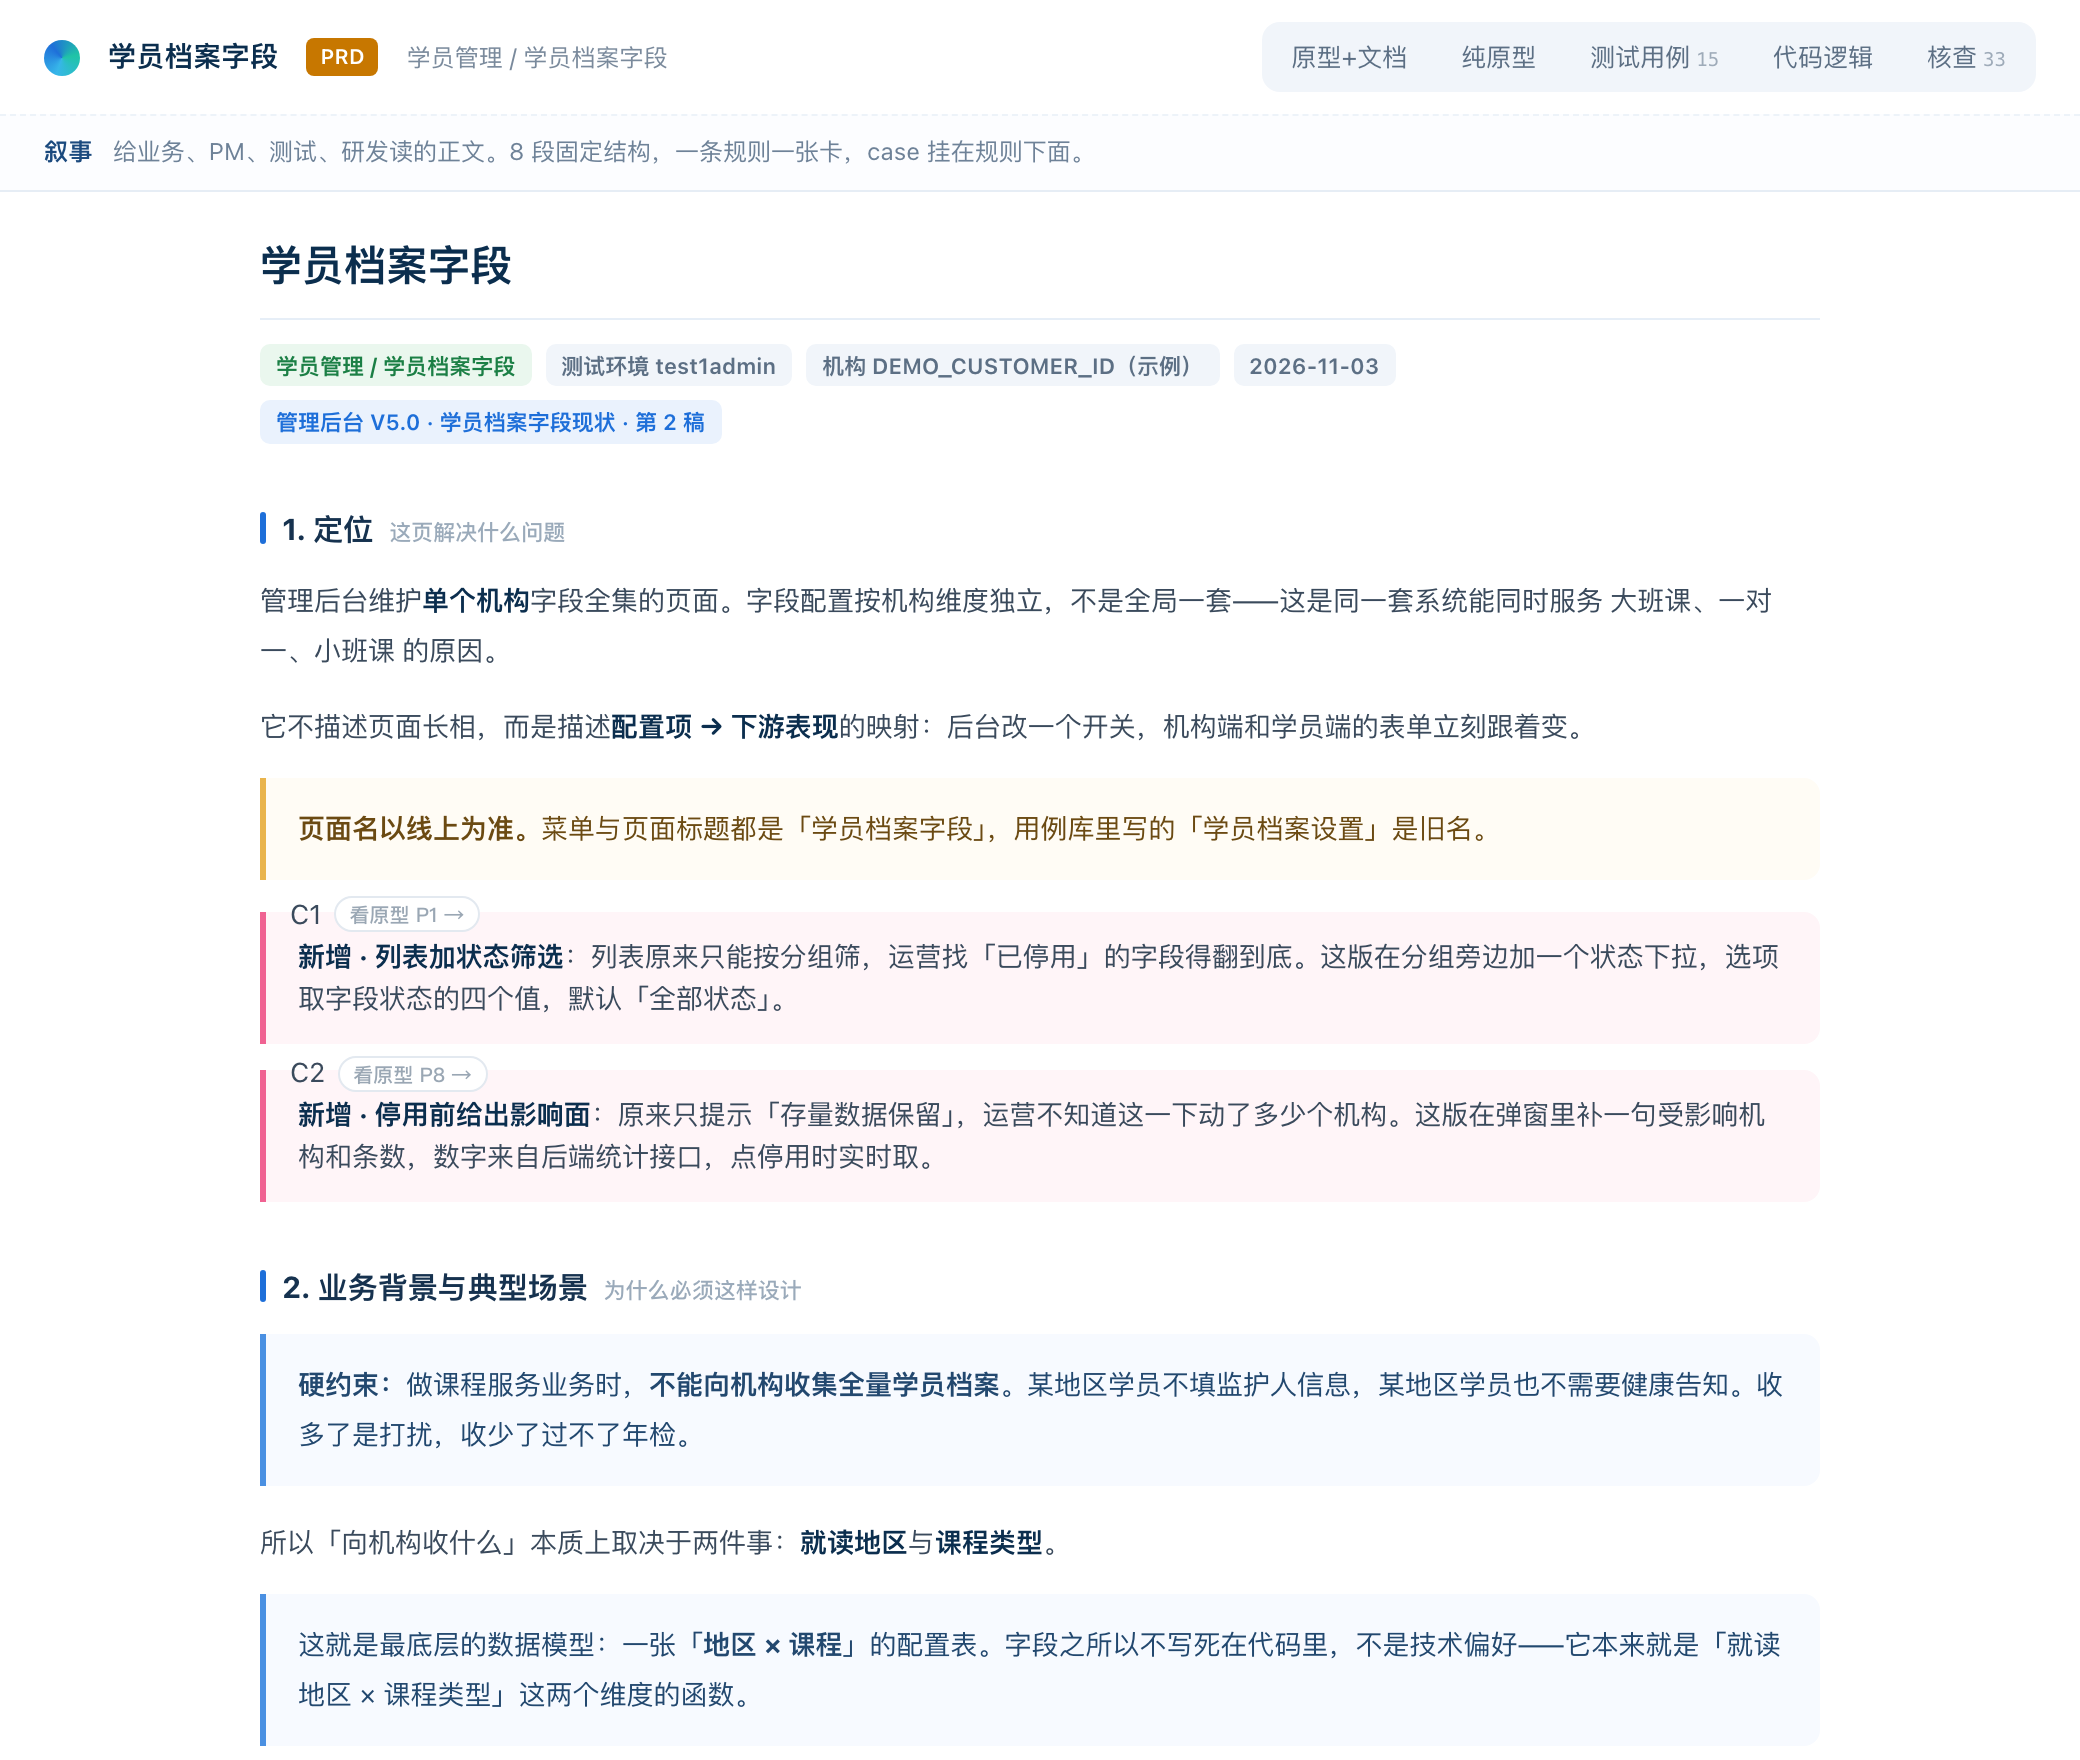
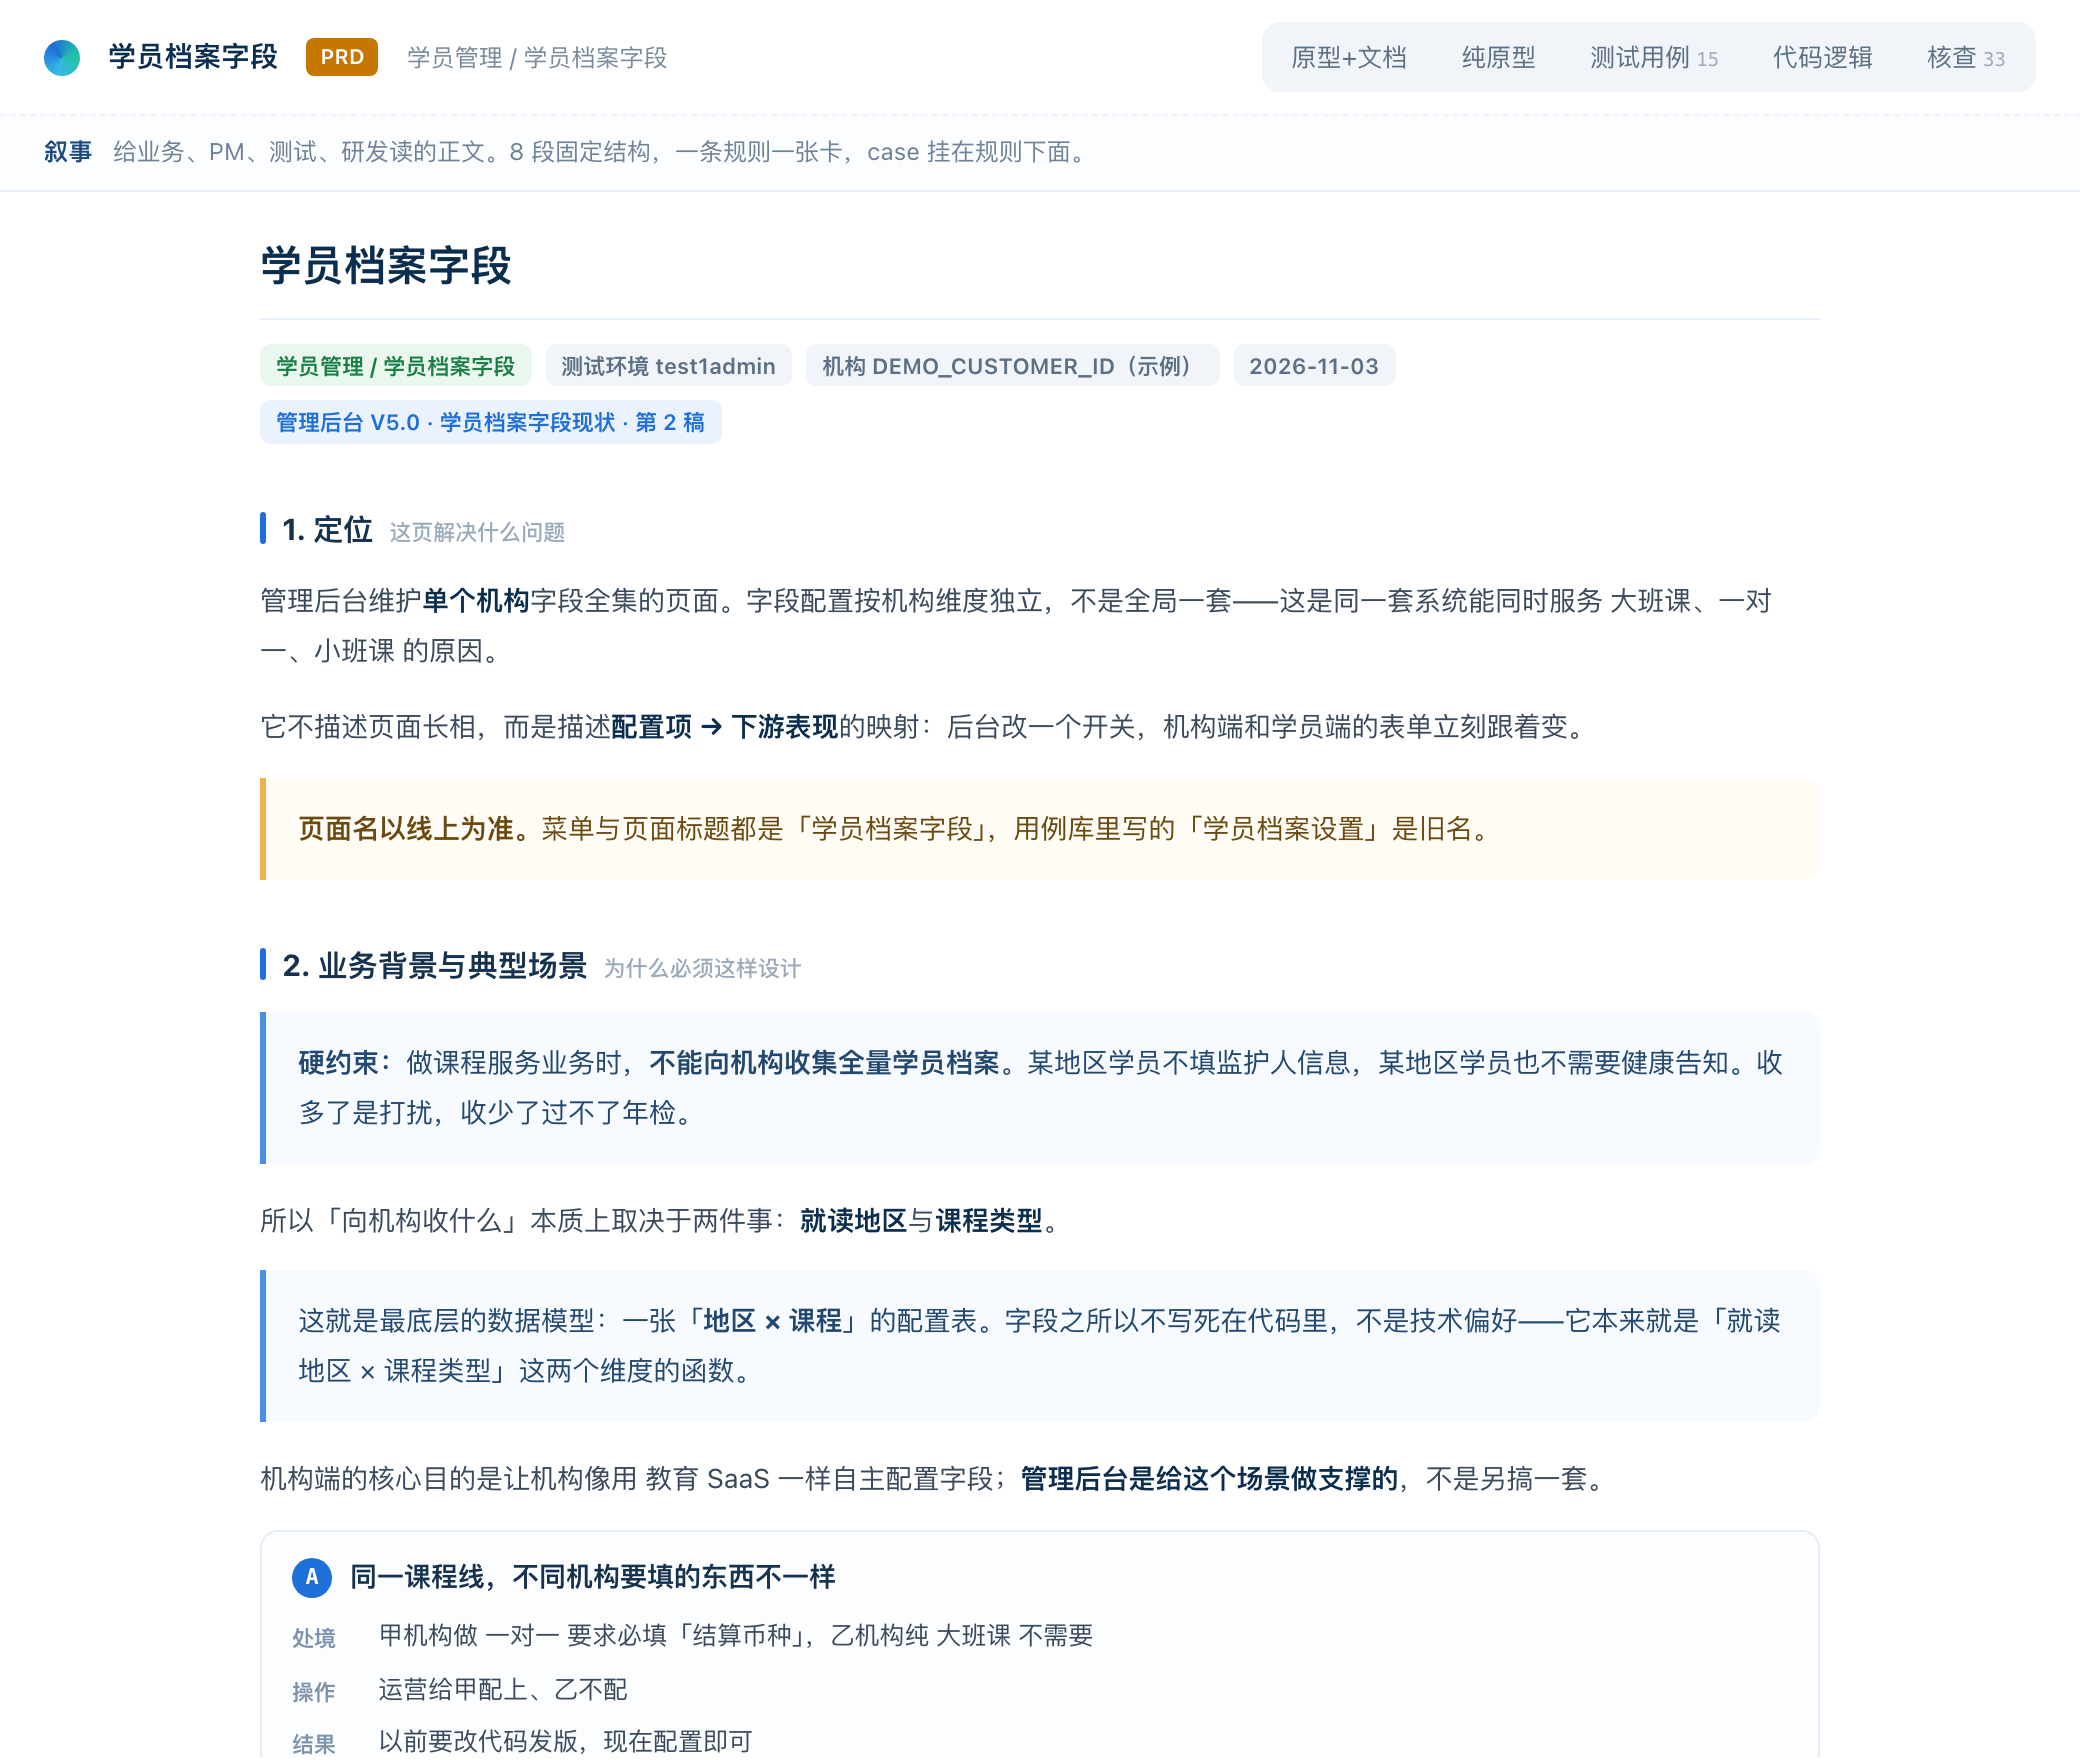
docs: rewrite the iteration sample to the narrative spec
The change blocks were one paragraph each, which breaks two rules from
references/narrative.md: a change block is a 位置/改前/改后 table, and each
supporting fact gets its own line instead of being crammed into prose.

- change list moved to the end of section 4 (fields), where the spec puts it,
  not appended to the positioning section
- each block: heading 改① 位置：一句话, then the three-column table, then
  取值 / 默认 / 约束 / 文案原文 / 取数 / 兜底 on separate lines
- prototype marks unchanged (C1 toolbar filter, C2 deactivate dialog)

Changed region(s): [[0.125, 0.5, 0.8438, 1.0], [0.75, 0.9062, 0.8438, 0.9375], [0.6562, 0.9062, 0.7188, 0.9375]]

diff --git a/docs/demo-iteration.html b/docs/demo-iteration.html
@@ -1144,7 +1144,7 @@ window.PRD_DATA = {
    "n": 1,
    "title": "定位",
    "sub": "这页解决什么问题",
-   "html": "<p>管理后台维护<b>单个机构<\/b>字段全集的页面。字段配置按机构维度独立，不是全局一套——这是同一套系统能同时服务 大班课、一对一、小班课 的原因。<\/p><p>它不描述页面长相，而是描述<b>配置项 → 下游表现<\/b>的映射：后台改一个开关，机构端和学员端的表单立刻跟着变。<\/p><div class=\"callout warn\"><b>页面名以线上为准。<\/b>菜单与页面标题都是「学员档案字段」，用例库里写的「学员档案设置」是旧名。<\/div><div class=\"dchg\" data-chg=\"C1\" data-draft=\"2\"><span class=\"dchg-bd\">C1<\/span><b>新增 · 列表加状态筛选<\/b>：列表原来只能按分组筛，运营找「已停用」的字段得翻到底。这版在分组旁边加一个状态下拉，选项取字段状态的四个值，默认「全部状态」。<\/div><div class=\"dchg\" data-chg=\"C2\" data-draft=\"2\"><span class=\"dchg-bd\">C2<\/span><b>新增 · 停用前给出影响面<\/b>：原来只提示「存量数据保留」，运营不知道这一下动了多少个机构。这版在弹窗里补一句受影响机构和条数，数字来自后端统计接口，点停用时实时取。<\/div>"
+   "html": "<p>管理后台维护<b>单个机构<\/b>字段全集的页面。字段配置按机构维度独立，不是全局一套——这是同一套系统能同时服务 大班课、一对一、小班课 的原因。<\/p><p>它不描述页面长相，而是描述<b>配置项 → 下游表现<\/b>的映射：后台改一个开关，机构端和学员端的表单立刻跟着变。<\/p><div class=\"callout warn\"><b>页面名以线上为准。<\/b>菜单与页面标题都是「学员档案字段」，用例库里写的「学员档案设置」是旧名。<\/div>"
   },
   {
    "n": 2,
@@ -1162,7 +1162,7 @@ window.PRD_DATA = {
    "n": 4,
    "title": "字段字典与约束",
    "sub": "可配项的精确约束",
-   "html": "<p>只列<b>配置项<\/b>的约束，不列字段清单——清单随机构变，写死必然过期。本机构快照 110 个字段 / 6 个分组。<\/p><div class=\"tw\"><table><tr><th style=\"width:132px\">配置项<\/th><th style=\"width:58px\">类型<\/th><th style=\"width:52px\">必填<\/th><th>取值与限制<\/th><\/tr><tr><td><b>字段类型<\/b><\/td><td>枚举<\/td><td>是<\/td><td><b>8 种<\/b>：文本 / 数值 / 选项 / 日期 / 文件 / 国家·地区 / 币种 / 其他。单选·多选是「选项」的子值，不是顶层类型（见 R-OPS-FIELD-10）<\/td><\/tr><tr><td><b>机构端权限控制<\/b><\/td><td>枚举<\/td><td>是<\/td><td>三档：机构隐藏 / 机构可查看 / 机构可填写。落库为 permission_config = hide / view / fill_in<\/td><\/tr><tr><td><b>字段填写方<\/b><\/td><td>枚举<\/td><td>是<\/td><td>机构填写 / 学员填写。<b>不含<\/b>「管理后台填写」——那一档由权限自动决定<\/td><\/tr><tr><td><b>学员端是否可见<\/b><\/td><td>枚举<\/td><td>是<\/td><td>可见 / 隐藏。仅当填写方=机构时出现<\/td><\/tr><tr><td><b>是否需要机构审核<\/b><\/td><td>枚举<\/td><td>是<\/td><td>需要审核 / 无需审核。仅当填写方=学员时出现<\/td><\/tr><tr><td><b>是否强制填写<\/b><\/td><td>枚举<\/td><td>是<\/td><td>是 / 否。恒显示，与填写方无关<\/td><\/tr><tr><td><b>就读地区显示配置<\/b><\/td><td>枚举<\/td><td>是<\/td><td>三档：所有均显示 / 指定均显示 / 所有均不显示（countryType = all / specify / none）<\/td><\/tr><tr><td><b>必填项配置<\/b><\/td><td>枚举<\/td><td>是<\/td><td>三档：所有情况均必填 / 根据地区设置 / 所有情况均非必填。<b>显示配置=均不显示时本项不出现<\/b><\/td><\/tr><tr><td><b>授课方<\/b><\/td><td>枚举<\/td><td>否<\/td><td>三档：指定授课方 / 其他授课方 / 无需指定授课方<\/td><\/tr><\/table><\/div><div class=\"callout warn\"><b>字段总数不写死。<\/b>它随机构配置变化——本文档快照是 110 个，换个机构就不是这个数。任何「共 N 个字段」的表述都只能标成某时点某机构的快照。<\/div>"
+   "html": "<p>只列<b>配置项<\/b>的约束，不列字段清单——清单随机构变，写死必然过期。本机构快照 110 个字段 / 6 个分组。<\/p><div class=\"tw\"><table><tr><th style=\"width:132px\">配置项<\/th><th style=\"width:58px\">类型<\/th><th style=\"width:52px\">必填<\/th><th>取值与限制<\/th><\/tr><tr><td><b>字段类型<\/b><\/td><td>枚举<\/td><td>是<\/td><td><b>8 种<\/b>：文本 / 数值 / 选项 / 日期 / 文件 / 国家·地区 / 币种 / 其他。单选·多选是「选项」的子值，不是顶层类型（见 R-OPS-FIELD-10）<\/td><\/tr><tr><td><b>机构端权限控制<\/b><\/td><td>枚举<\/td><td>是<\/td><td>三档：机构隐藏 / 机构可查看 / 机构可填写。落库为 permission_config = hide / view / fill_in<\/td><\/tr><tr><td><b>字段填写方<\/b><\/td><td>枚举<\/td><td>是<\/td><td>机构填写 / 学员填写。<b>不含<\/b>「管理后台填写」——那一档由权限自动决定<\/td><\/tr><tr><td><b>学员端是否可见<\/b><\/td><td>枚举<\/td><td>是<\/td><td>可见 / 隐藏。仅当填写方=机构时出现<\/td><\/tr><tr><td><b>是否需要机构审核<\/b><\/td><td>枚举<\/td><td>是<\/td><td>需要审核 / 无需审核。仅当填写方=学员时出现<\/td><\/tr><tr><td><b>是否强制填写<\/b><\/td><td>枚举<\/td><td>是<\/td><td>是 / 否。恒显示，与填写方无关<\/td><\/tr><tr><td><b>就读地区显示配置<\/b><\/td><td>枚举<\/td><td>是<\/td><td>三档：所有均显示 / 指定均显示 / 所有均不显示（countryType = all / specify / none）<\/td><\/tr><tr><td><b>必填项配置<\/b><\/td><td>枚举<\/td><td>是<\/td><td>三档：所有情况均必填 / 根据地区设置 / 所有情况均非必填。<b>显示配置=均不显示时本项不出现<\/b><\/td><\/tr><tr><td><b>授课方<\/b><\/td><td>枚举<\/td><td>否<\/td><td>三档：指定授课方 / 其他授课方 / 无需指定授课方<\/td><\/tr><\/table><\/div><div class=\"callout warn\"><b>字段总数不写死。<\/b>它随机构配置变化——本文档快照是 110 个，换个机构就不是这个数。任何「共 N 个字段」的表述都只能标成某时点某机构的快照。<\/div><h3>二、改动点（2 处，与原型上的编号一一对应）<\/h3><p>每个改动点只写四件事：<b>改前什么样 → 改后什么样 → 什么条件走哪条 → 界面上出现的文案原文<\/b>。<\/p><h4>（一）列表页 · 1 处<\/h4><div class=\"dchg\" data-chg=\"C1\" data-draft=\"2\"><span class=\"dchg-bd\" data-chg=\"C1\" data-draft=\"2\">改① 列表工具栏：加状态筛选<\/span><div class=\"tw\"><table><tr><th style=\"width:22%\">位置<\/th><th style=\"width:32%\">改前<\/th><th>改后<\/th><\/tr><tr><td>字段列表 · 工具栏<\/td><td>只有「全部分组」一个下拉<\/td><td>分组右边加「全部状态」下拉<\/td><\/tr><\/table><\/div><p><b>取值<\/b>：草稿 / 启用 / 停用 / 全部状态。<\/p><p><b>默认<\/b>：全部状态。<\/p><p><b>约束<\/b>：只筛当前分组内的行，不改字段总数。<\/p><\/div><h4>（二）弹窗 · 1 处<\/h4><div class=\"dchg\" data-chg=\"C2\" data-draft=\"2\"><span class=\"dchg-bd\" data-chg=\"C2\" data-draft=\"2\">改② 停用确认：补影响面<\/span><div class=\"tw\"><table><tr><th style=\"width:22%\">位置<\/th><th style=\"width:32%\">改前<\/th><th>改后<\/th><\/tr><tr><td>停用确认弹窗 · 正文<\/td><td>「停用后…已有存量数据保留。」<\/td><td>后面补一句影响面<\/td><\/tr><\/table><\/div><p><b>文案原文<\/b>：「本字段当前被 8 个机构使用、合计 2,341 条存量。」<\/p><p><b>取数<\/b>：点「停用」时实时取，不缓存。<\/p><p><b>兜底<\/b>：取数失败时不显示这一句，停用照常可点。<\/p><\/div>"
   },
   {
    "n": 5,
